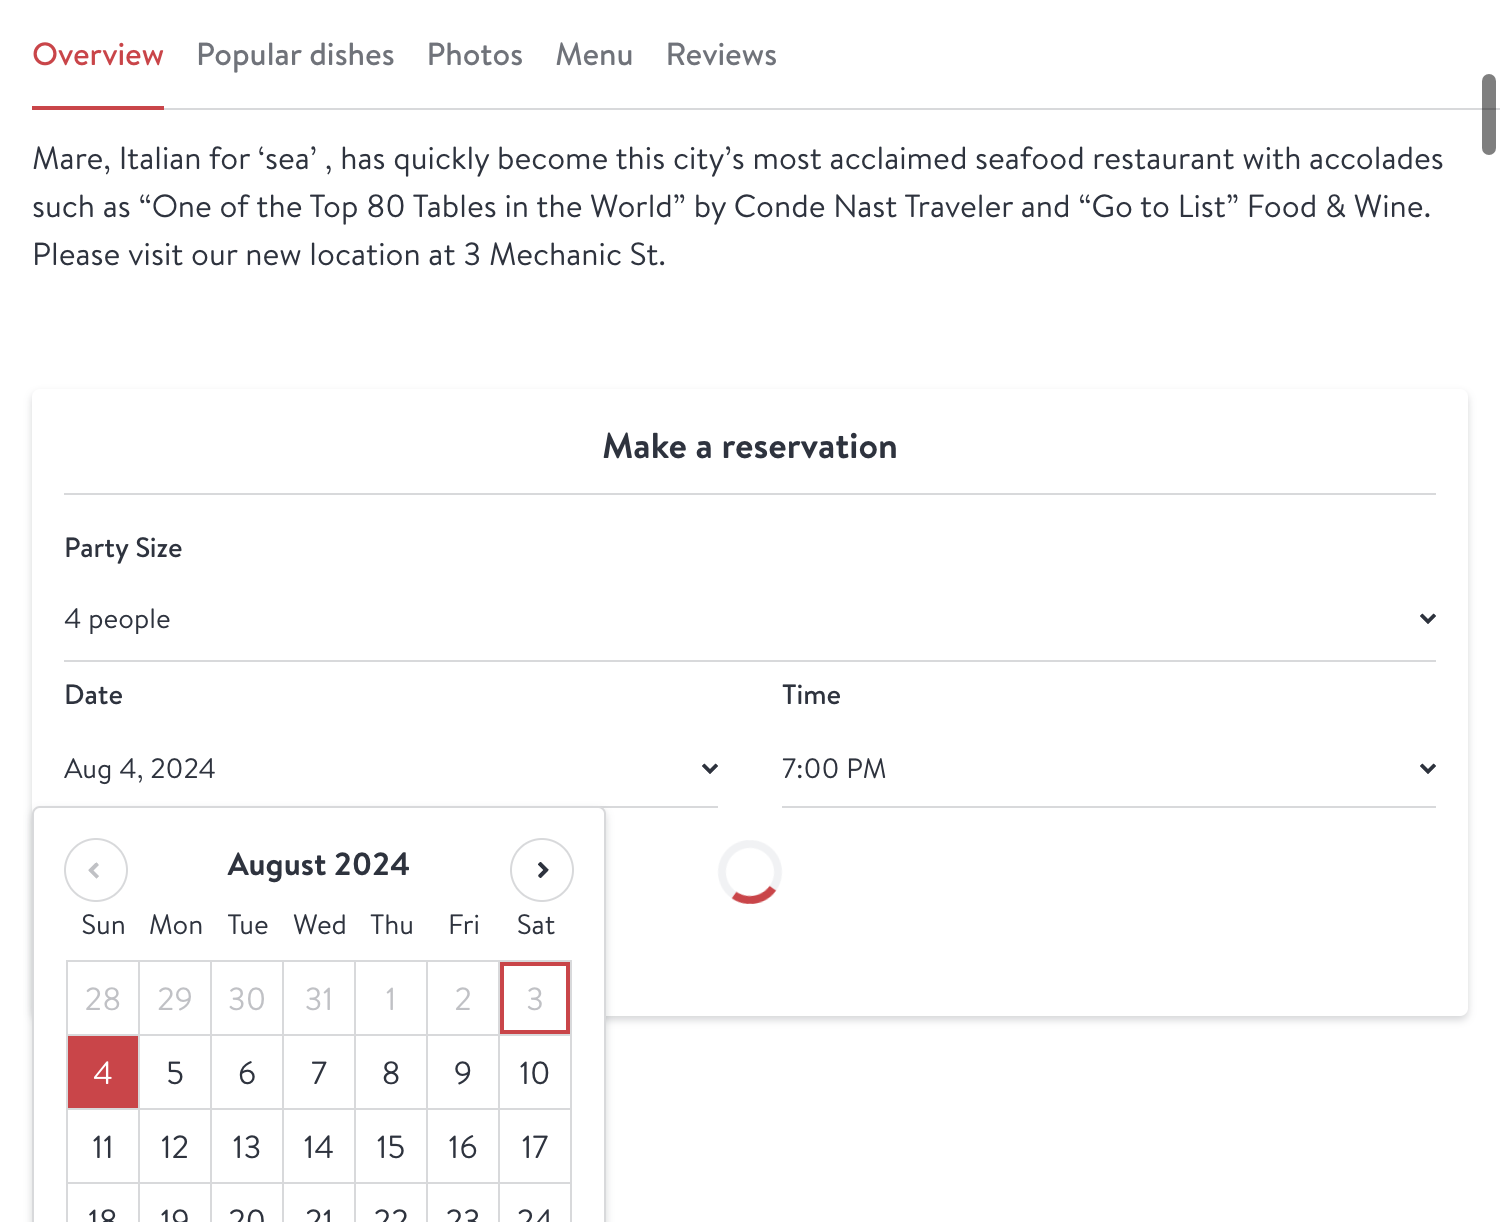
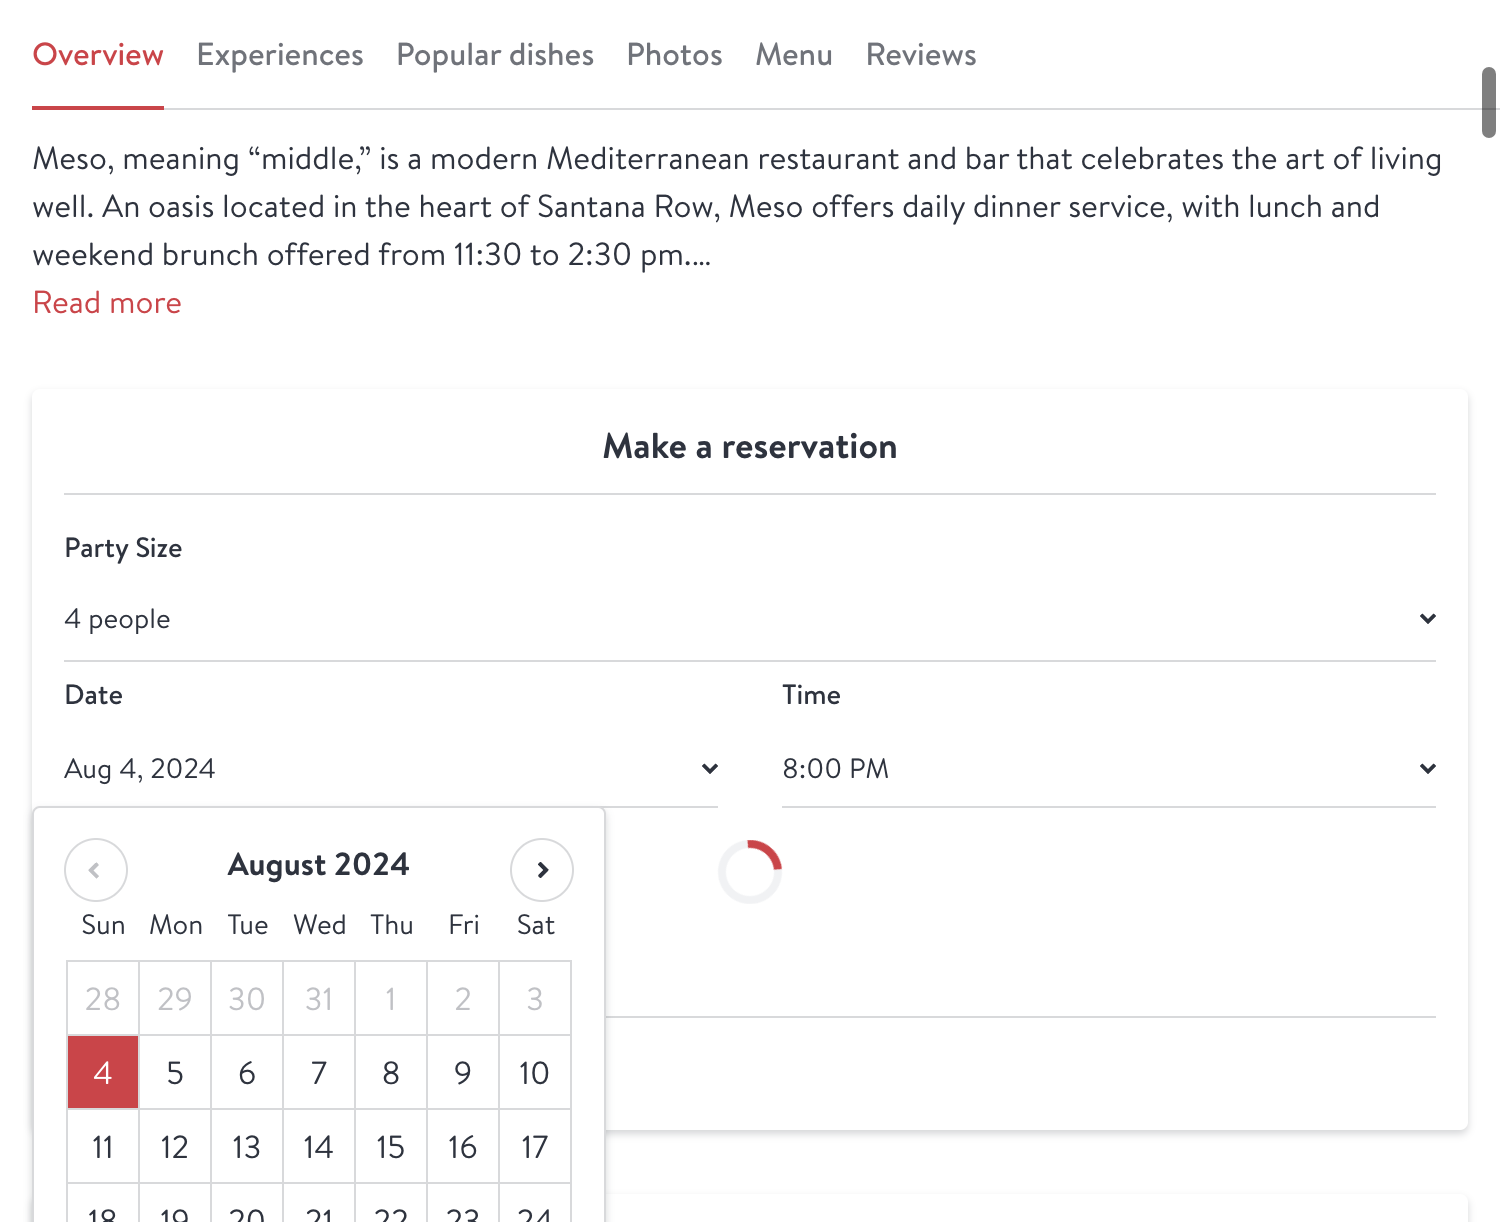
added handling for additional seating options page and fixed bug for too-fast time selection

diff --git a/webscrape.py b/webscrape.py
@@ -51,6 +51,7 @@ def reservation_handler(driver, guests, date, opentable_url, ideal_time, earlies
 
   for time in times:
     if make_reservation(driver, time, phone_number, opentable_url):
+      print("reservation made")
       return {"status": 200, "message": "Reservations made!", "reservation_success": True}
   
   # send_emails(RESTAURANT_NAME, f"{date["month"]}/{date["day"]}/{date["year"]}", times, guests, opentable_url)
@@ -62,7 +63,7 @@ def reservation_handler(driver, guests, date, opentable_url, ideal_time, earlies
 
 def make_reservation(driver, time, phone_number, opentable_url):
   try:
-    # Select time so 
+    # Select time to ensure reservation time shows on screen
     select_time(driver, time)
     print(datetime_to_string(time))
     wait = WebDriverWait(driver, 10)
@@ -71,7 +72,16 @@ def make_reservation(driver, time, phone_number, opentable_url):
     )
     button.click()
 
-    phone_input = driver.find_element(By.XPATH, "//input[@aria-label='Phone number']")
+    seating_options_header = driver.find_elements(By.XPATH, "//h1[contains(text(), 'Seating options')]")
+    if seating_options_header:
+      standard_seating_button = driver.find_element(By.CSS_SELECTOR, 'button[data-test="seatingOption-default-button"]')
+      standard_seating_button.click()
+
+    
+    phone_input = wait.until(
+      EC.visibility_of_element_located((By.XPATH, "//input[@aria-label='Phone number']"))
+    )
+    # driver.find_element(By.XPATH, "//input[@aria-label='Phone number']")
     phone_input.send_keys(phone_number)
 
     email_opt_in_checkbox = driver.find_element(By.ID, "optInEmailRestaurant")
@@ -84,7 +94,7 @@ def make_reservation(driver, time, phone_number, opentable_url):
     for field in required_fields:
       if not field.is_selected():
         driver.execute_script("arguments[0].click();", field)
-      
+        
     
     # TODO: Click button to make reservation!!!
     return True
@@ -108,7 +118,7 @@ def get_valid_times(driver, earliest_time, latest_time):
   times = []
 
   try:
-    wait = WebDriverWait(driver, 10)
+    wait = WebDriverWait(driver, 7)
 
     # Will raise exception if no reservation available message does not appear after 10 seconds
     no_reservations_msg = wait.until(
@@ -120,9 +130,10 @@ def get_valid_times(driver, earliest_time, latest_time):
 
     # Identify which times are available and in time range
     for button in time_buttons:
-      time_text = button.text
+      time_text = button.text.rstrip("*")
 
       if time_text:
+        print(time_text)
         dt = convert_to_datetime(time_text)
 
         if earliest_time <= dt <= latest_time:
@@ -141,7 +152,7 @@ def get_valid_times(driver, earliest_time, latest_time):
 def get_opentable_url(driver, restaurant_name, geolocation):
   # Set location
   driver.execute_cdp_cmd("Emulation.setGeolocationOverride", geolocation)
-  sleep(0.3)
+  sleep(0.3) # Sleep to ensure location is set before loading page
   driver.get(BASE_OPENTABLE_URL)
   wait = WebDriverWait(driver, 10)
 
@@ -222,7 +233,17 @@ def select_date(driver, date):
 def select_time(driver, time_of_day):
   time_of_day = round_to_nearest_half_hour(time_of_day)
   time_of_day = datetime_to_string(time_of_day)
-  reservation_time_select = driver.find_element(By.XPATH, '//select[@aria-label="Time selector"]')
+
+  wait = WebDriverWait(driver, 10)
+  reservation_time_select = wait.until(
+    EC.presence_of_element_located((By.XPATH, '//select[@aria-label="Time selector"]'))
+  )
+
+  # Wait until time buttons appear before selecting new time to ensure correct time are loaded
+  _ = wait.until(
+      EC.visibility_of_element_located((By.XPATH, f"//button[text()='Notify me']"))
+    )
+
   reservation_time = Select(reservation_time_select)
   reservation_time.select_by_visible_text(time_of_day)
   

diff --git a/lambda_function.py b/lambda_function.py
@@ -23,9 +23,9 @@ boston_geolocation = {
 # }
 
 event = {
-  "dates": [{"day": 30, "month": 8, "year": 2024, "earliest_time": "5:00 PM", "latest_time": "7:30 PM", "ideal_time": "6:00 PM"}, {"day": 12, "month": 8, "year": 2024, "earliest_time": "11:00 AM", "latest_time": "12:00 PM", "ideal_time": "1:00 PM"}],
+  "dates": [{"day": 30, "month": 8, "year": 2024, "earliest_time": "5:00 PM", "latest_time": "7:30 PM", "ideal_time": "6:00 PM"}, {"day": 12, "month": 8, "year": 2024, "earliest_time": "11:00 AM", "latest_time": "1:00 PM", "ideal_time": "12:00 PM"}],
   "guests": 4,
-  "restaurant_name": "Mare",
+  "restaurant_name": "Meso Modern Mediterranean",
   "geolocation": {
     "latitude": 42.3601,  # Boston latitude
     "longitude": -71.0589,  # Boston longitude
@@ -78,40 +78,40 @@ def lambda_handler(event, context):
 
 def set_up_driver():
   # Set up the Chrome driver
-    chrome_options = ChromeOptions()
-    chrome_options.add_argument("--headless=new")
-    chrome_options.add_argument("--no-sandbox")
-    chrome_options.add_argument("--disable-dev-shm-usage")
-    chrome_options.add_argument("--disable-gpu")
-    chrome_options.add_argument("--disable-dev-tools")
-    chrome_options.add_argument("--no-zygote")
-    chrome_options.add_argument("--single-process")
-    chrome_options.add_argument(f"--user-data-dir={mkdtemp()}")
-    chrome_options.add_argument(f"--data-path={mkdtemp()}")
-    chrome_options.add_argument(f"--disk-cache-dir={mkdtemp()}")
-    chrome_options.add_argument("--remote-debugging-pipe")
-    chrome_options.add_argument("--verbose")
-    chrome_options.add_argument("--log-path=/tmp")
-    chrome_options.add_argument("user-agent=Mozilla/5.0 (Windows NT 10.0; Win64; x64) AppleWebKit/537.36 (KHTML, like Gecko) Chrome/91.0.4472.124 Safari/537.36")
-    chrome_options.binary_location = "/opt/chrome/chrome-linux64/chrome"
+  # chrome_options = ChromeOptions()
+  # chrome_options.add_argument("--headless=new")
+  # chrome_options.add_argument("--no-sandbox")
+  # chrome_options.add_argument("--disable-dev-shm-usage")
+  # chrome_options.add_argument("--disable-gpu")
+  # chrome_options.add_argument("--disable-dev-tools")
+  # chrome_options.add_argument("--no-zygote")
+  # chrome_options.add_argument("--single-process")
+  # chrome_options.add_argument(f"--user-data-dir={mkdtemp()}")
+  # chrome_options.add_argument(f"--data-path={mkdtemp()}")
+  # chrome_options.add_argument(f"--disk-cache-dir={mkdtemp()}")
+  # chrome_options.add_argument("--remote-debugging-pipe")
+  # chrome_options.add_argument("--verbose")
+  # chrome_options.add_argument("--log-path=/tmp")
+  # chrome_options.add_argument("user-agent=Mozilla/5.0 (Windows NT 10.0; Win64; x64) AppleWebKit/537.36 (KHTML, like Gecko) Chrome/91.0.4472.124 Safari/537.36")
+  # chrome_options.binary_location = "/opt/chrome/chrome-linux64/chrome"
 
-    service = Service(
-      executable_path="/opt/chrome-driver/chromedriver-linux64/chromedriver",
-      service_log_path="/tmp/chromedriver.log"
-    )
+  # service = Service(
+  #   executable_path="/opt/chrome-driver/chromedriver-linux64/chromedriver",
+  #   service_log_path="/tmp/chromedriver.log"
+  # )
 
-    print("Starting Chrome driver")
-    driver = webdriver.Chrome(
-      service=service,
-      options=chrome_options
-    )
-    print("Chrome driver started")
+  # print("Starting Chrome driver")
+  # driver = webdriver.Chrome(
+  #   service=service,
+  #   options=chrome_options
+  # )
+  # print("Chrome driver started")
 
     
 
-    # driver = webdriver.Chrome()
-    return driver
+  driver = webdriver.Chrome()
+  return driver
 
   
   
-# lambda_handler(event, None)
+lambda_handler(event, None)

diff --git a/app.py b/app.py
@@ -1,77 +1,1 @@
-import time
-from selenium import webdriver
-from selenium.webdriver.chrome.options import Options as ChromeOptions
-from selenium.webdriver.chrome.service import Service
-from selenium.webdriver.common.by import By
-from selenium.webdriver.support.select import Select 
-from selenium.webdriver.support.ui import WebDriverWait
-from selenium.webdriver.support import expected_conditions as EC
-import datetime
-from emails import send_emails, send_error_notification
-import traceback
-from tempfile import mkdtemp
-from webscrape import get_opentable_url, make_reservation
-import requests
-
-
-
-def reserve_or_poll(guests, date, time_of_day, restaurant_name, opentable_url=None):
-  try:
-    # Set up the Chrome driver
-    # chrome_options = ChromeOptions()
-    # chrome_options.add_argument("--headless=new")
-    # chrome_options.add_argument("--no-sandbox")
-    # chrome_options.add_argument("--disable-dev-shm-usage")
-    # chrome_options.add_argument("--disable-gpu")
-    # chrome_options.add_argument("--disable-dev-tools")
-    # chrome_options.add_argument("--no-zygote")
-    # chrome_options.add_argument("--single-process")
-    # chrome_options.add_argument(f"--user-data-dir={mkdtemp()}")
-    # chrome_options.add_argument(f"--data-path={mkdtemp()}")
-    # chrome_options.add_argument(f"--disk-cache-dir={mkdtemp()}")
-    # chrome_options.add_argument("--remote-debugging-pipe")
-    # chrome_options.add_argument("--verbose")
-    # chrome_options.add_argument("--log-path=/tmp")
-    # chrome_options.add_argument("user-agent=Mozilla/5.0 (Windows NT 10.0; Win64; x64) AppleWebKit/537.36 (KHTML, like Gecko) Chrome/91.0.4472.124 Safari/537.36")
-    # chrome_options.binary_location = "/opt/chrome/chrome-linux64/chrome"
-
-    # service = Service(
-    #   executable_path="/opt/chrome-driver/chromedriver-linux64/chromedriver",
-    #   service_log_path="/tmp/chromedriver.log"
-    # )
-
-    # print("Starting Chrome driver")
-    # driver = webdriver.Chrome(
-    #   service=service,
-    #   options=chrome_options
-    # )
-    # print("Chrome driver started")
-
-    driver = webdriver.Chrome()
-
-    if not opentable_url:
-      opentable_url = get_opentable_url(driver, restaurant_name, {
-        "latitude": 37.7749,  # San Francisco latitude
-        "longitude": -122.4194,  # San Francisco longitude
-        "accuracy": 100
-      })
-
-      if not opentable_url:
-        raise Exception("Restaurant not found on OpenTable")
-    
-    res = make_reservation(driver, guests, date, time_of_day, opentable_url)
-
-    if res["reservation_success"]:
-      print("Reservation made!")
-      return
-    
-    print("Reservation not available. Polling for availability")
-    # TODO: set up AWS Lambda trigger to poll for availability
-
-    
-    
-  except Exception as e:
-    print(f"Error: {e}")
-    traceback_str = traceback.format_exc()
-    send_error_notification(e, traceback_str)
-    raise
+from webscrape import reservation_handler, get_opentable_url
